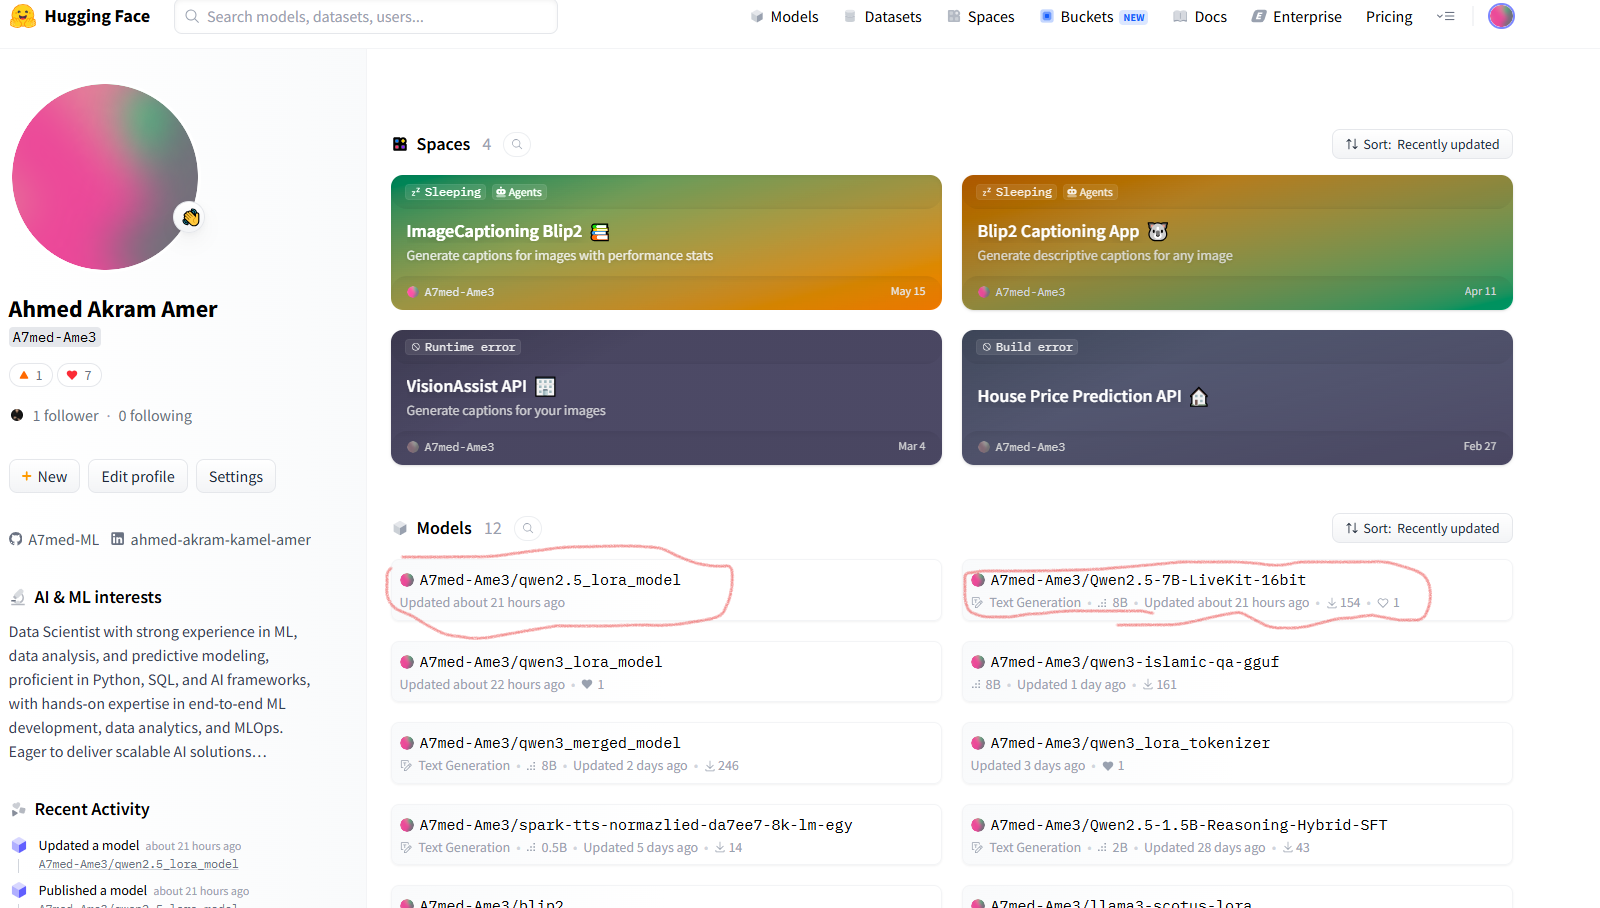
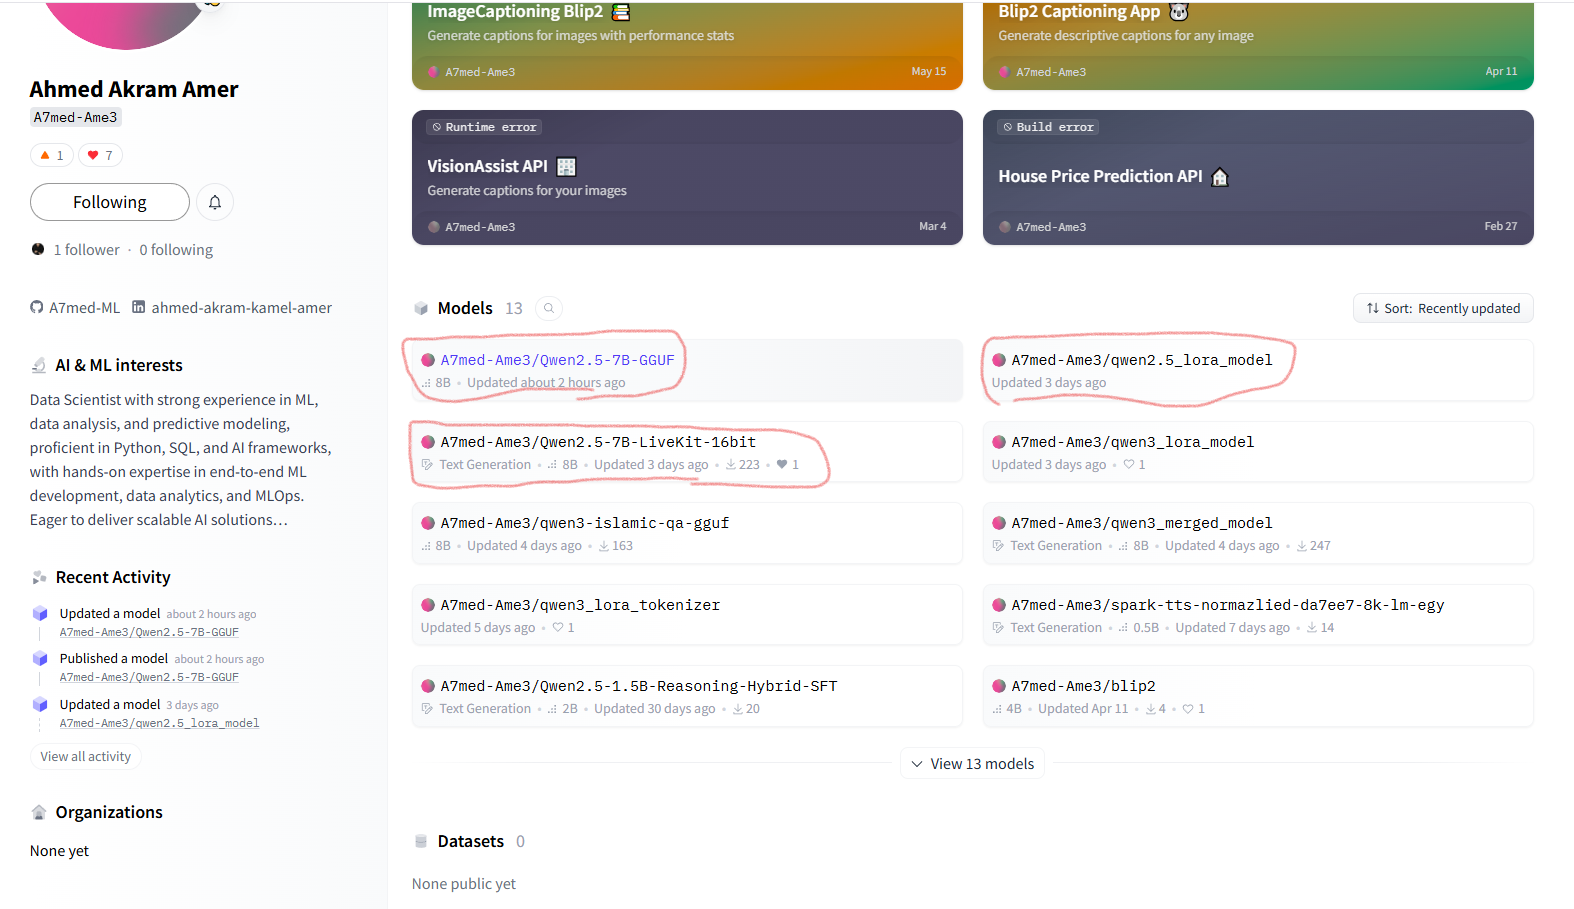
Try Inference with Llama.cpp

diff --git a/llama_inference.py b/llama_inference.py
@@ -1,0 +1,56 @@
+from pyngrok import ngrok
+import sys
+import time
+import subprocess
+import os
+# توجيه الكاش لمجلد محلي داخل المشروع قبل استدعاء باقي المكتبات
+os.environ["HF_HOME"] = "./.hf_cache"
+
+
+PORT = 8000
+REPO_ID = "A7med-Ame3/Qwen2.5-7B-GGUF"
+FILENAME = "Qwen2.5-7B-LiveKit-16bit.Q4_K_M.gguf"
+
+
+def start_llama_server():
+    print("🚀 جاري تشغيل llama-cpp server...")
+
+    cmd = [
+        sys.executable, "-m", "llama_cpp.server",
+        "--hf_model_repo_id", REPO_ID,
+        "--model", FILENAME,
+        "--n_gpu_layers", "-1",
+        "--host", "0.0.0.0",
+        "--port", str(PORT)
+    ]
+
+    server_process = subprocess.Popen(cmd)
+
+    print("⏳ انتظار تحميل الموديل والسيرفر...")
+    time.sleep(10)
+
+    try:
+        public_url = ngrok.connect(PORT).public_url
+        base_url = f"{public_url}/v1"
+
+        print("\n" + "="*50)
+        print("✅ السيرفر شغال بنجاح!")
+        print(f"🔗 انسخ هذا الرابط وضعه في ملف .env كـ LLM_BASE_URL:")
+        print(f"\n{base_url}\n")
+        print("="*50 + "\n")
+
+    except Exception as e:
+        print(f"❌ حدث خطأ أثناء فتح Ngrok: {e}")
+        server_process.terminate()
+        return
+
+    try:
+        server_process.wait()
+    except KeyboardInterrupt:
+        print("\n🛑 جاري إيقاف السيرفر و Ngrok...")
+        ngrok.kill()
+        server_process.terminate()
+
+
+if __name__ == "__main__":
+    start_llama_server()

diff --git a/agent.py b/agent.py
@@ -11,6 +11,8 @@ load_dotenv(".env")
 # Run vLLM Server on Kaggle Notebook
 # Make it Public via Ngork
 # Take Public URL in Livekit Agent
+
+# - llama.cpp -> 
 # The Pipeline :-
 # 1) STT        --> Convert my speech into text
 # 2) Custom LLM --> Make Actions on a received text (Generate Answer)
@@ -18,7 +20,7 @@ load_dotenv(".env")
 
 LLM_BASE_URL = os.getenv("LLM_BASE_URL", "https://unsignalised-englacial-vinnie.ngrok-free.dev/v1")
 LLM_MODEL_NAME = os.getenv("LLM_MODEL_NAME", "A7med-Ame3/Qwen2.5-7B-LiveKit-16bit")
-
+# LLM_MODEL_NAME = os.getenv("LLM_MODEL_NAME", "Qwen2.5-7B-LiveKit-16bit.Q4_K_M.gguf")
 
 SYSTEM_PROMPT = (
     # --> Context 
@@ -72,7 +74,7 @@ async def entrypoint(ctx: JobContext):
     await session.start(room=ctx.room, agent=agent)
 
     await session.say(
-        "أهلاً بك! أنا هنا عشان أساعدك في أي سؤال ديني، اتفضل اسأل.",
+        "اهلا بيك اخى العزيز,اسمك ايه و اقدر اساعدك ازاى ؟ ",
         allow_interruptions=True,
     )
 

diff --git a/README.md b/README.md
@@ -1,0 +1,158 @@
+# 🚀 [Tips Hindawi](https://www.tipshindawi.com/) Challenge (June–July) 2026
+
+> 🏆 This repository is my official submission for the [**Tips Hindawi**](https://www.tipshindawi.com/) **Challenge (June–July) 2026**.
+
+## 👤 Participant
+
+| Field            | Value                                            |
+| ---------------- | ------------------------------------------------ |
+| Full Name        | Ahmed Akram Amer                                 |
+| Project Name     | Islamic-QA-Egyptian-Dialect                      |
+| GitHub Username  | [Ahmed-7-ML](https://github.com/Ahmed-7-ML)       |
+| Challenge Batch  | June–July 2026                                  |
+| Training Program | Large Language Models (LLMs) Program             |
+| Organization     | [**Edrak for Ai**](https://edrak4ai.com/en) |
+
+---
+
+# 📖 Project Overview
+
+**Islamic-QA-Egyptian-Dialect** is a fine-tuned, low-latency conversational AI assistant that understands and answers Islamic (Aqeedah, Fiqh, Seerah/history, and general) questions naturally in **Egyptian Arabic dialect (العامية المصرية)**.
+
+The project fine-tunes `Qwen2.5-7B-Instruct` on a curated Egyptian-Arabic Islamic Q&A dataset using LoRA/QLoRA, then deploys the result across two production-style serving paths — a merged 16-bit model via **vLLM** and integrates it into a real-time, voice-based conversational agent using the **LiveKit Agents Framework** (Deepgram STT → LLM → Cartesia TTS).
+
+Every technical decision — base model choice, dataset selection, LoRA configuration, and quantization strategy — is documented and justified in [`ARCHITECTURE.md`](./ARCHITECTURE.md), alongside a systematic base-model-vs-fine-tuned-model evaluation covering latency, VRAM, and dialect consistency.
+
+---
+
+# ✨ Features
+
+* Fine-tuned LLM that answers Islamic questions fluently in natural Egyptian dialect instead of formal Modern Standard Arabic.
+* Parameter-efficient fine-tuning (LoRA/QLoRA via Unsloth) — trainable on limited/free-tier GPU memory.
+* Deployment-ready model formats: a merged 16-bit model for **vLLM** serving.
+* Real-time voice agent built on **LiveKit Agents**, combining Deepgram STT, the fine-tuned LLM, Cartesia TTS, and Silero VAD into a full speech-to-speech pipeline.
+* Systematic **base vs. fine-tuned** evaluation harness measuring TTFT, TPS, output length, and peak VRAM across 16 held-out questions spanning 4 intent categories.
+* Documented, justified technical decisions for every stage of the pipeline (see `ARCHITECTURE.md`).
+
+---
+
+# 🛠 Technologies Used
+
+* **Base Model**: `Qwen2.5-7B-Instruct` (Qwen, Apache 2.0)
+* **Fine-Tuning**: LoRA / QLoRA (4-bit), [Unsloth](https://github.com/unslothai/unsloth), TRL `SFTTrainer`
+* **Quantization**: GGUF (`q4_k_m`) via Unsloth's native GGUF export
+* **Serving**: vLLM (OpenAI-compatible API), llama.cpp / Ollama (GGUF)
+* **Real-Time Voice Pipeline**: [LiveKit Agents Framework](https://docs.livekit.io/agents/), Deepgram (STT, `nova-3`), Cartesia (TTS, `sonic-3`), Silero (VAD)
+* **Data & Evaluation**: Hugging Face Hub (`datasets`, `transformers`), pandas, `sentence-transformers` (semantic similarity for quantization-loss comparison)
+* **Language**: Python
+
+---
+
+# ⚙ Installation
+
+```bash
+# Clone the repository
+git clone https://github.com/Ahmed-7-ML/Islamic-QA-Egyptian-Dialect.git
+cd Islamic-QA-Egyptian-Dialect
+
+# Install Python dependencies
+pip install -r requirements.txt
+```
+
+Create a `.env` file in the project root with the credentials needed for the LiveKit voice agent:
+
+```env
+LIVEKIT_URL=
+LIVEKIT_API_KEY=
+LIVEKIT_API_SECRET=
+DEEPGRAM_API_KEY=
+CARTESIA_API_KEY=
+OPENAI_API_KEY=EMPTY
+```
+
+The fine-tuning and evaluation notebook (`qwen3-8b-islamic-qa-updated.ipynb`) is designed to run on a GPU-backed environment (Kaggle/Colab or equivalent) and handles model loading, training, quantization, and benchmarking end-to-end.
+
+---
+
+# 🚀 Usage
+
+**1. Fine-tune and export the model** — open the notebook and run the cells in order: base model loading → LoRA fine-tuning → merge → GGUF quantization. Adapters, the merged model, and the dataset are also published on Hugging Face (see links below).
+
+**2. Serve the model** — either:
+
+- Serve the merged 16-bit model with **vLLM** (OpenAI-compatible endpoint), or
+- Run the **GGUF `q4_k_m`** model locally via `llama-cpp-python` or Ollama for lighter-weight inference.
+
+**3. Run the voice agent** — with the model server running, start the LiveKit agent worker:
+
+```bash
+python agent.py dev
+```
+
+Then connect to the agent through the [LiveKit Agents Playground](https://agents-playground.livekit.io/) (or my own frontend) using your `LIVEKIT_URL`, and start talking — the agent listens, thinks, and replies in Egyptian dialect, in voice.
+
+**4. Run the evaluation suite** — the notebook's evaluation section runs the full base-vs-fine-tuned benchmark.
+
+---
+
+# 📸 Demo
+
+🎥 **Live Demo (video)**: [Watch on Google Drive](https://drive.google.com/file/d/1BRYskrCp0Qf4y649rONq1XTpNDMA57-9/view?usp=sharing)
+
+**LiveKit console — live end-to-end voice test** (Egyptian dialect STT → LLM → TTS pipeline):
+
+![LiveKit console live test](./assets/livekit-console-test.png)
+
+**vLLM deployment check** (OpenAI-compatible `/v1/models` endpoint serving the fine-tuned model):
+
+![vLLM endpoint check](./assets/vllm-api-check.png)
+
+Additional training/evaluation charts and screenshots are available in [`ARCHITECTURE.md`](./ARCHITECTURE.md).
+
+---
+
+# 📈 Results
+
+A full base-model-vs-fine-tuned-model evaluation was run across 16 held-out questions spanning 4 intent categories (`aqeedah`, `fiqh`, `history`, `general`):
+
+| Metric                     | Base Model      | Fine-Tuned Model | Change                            |
+| -------------------------- | --------------- | ---------------- | --------------------------------- |
+| Total Inference Time (sec) | 12.75           | **7.68**   | ~40% faster                       |
+| Output Tokens              | 189.6           | **112.3**  | ~41% shorter, more direct answers |
+| TPS (tok/sec)              | **14.89** | 14.58            | ~unchanged                        |
+| TTFT (sec)                 | **0.29**  | 0.39             | ~34% slower                       |
+| Peak VRAM (MB)             | 14,157          | **14,168** | negligible difference             |
+
+**Key takeaway**: fine-tuning did not speed up raw token-by-token decoding, but it did teach the model to answer more concisely and directly in natural Egyptian dialect — cutting total response time by ~40% end-to-end, which matters most for a real-time voice assistant. TTFT was slightly higher for the fine-tuned model, a finding reported here rather than hidden, with further investigation flagged as future work.
+
+Full methodology, per-intent breakdowns, and the honest interpretation of these numbers (including what *didn't* improve) are documented in [`ARCHITECTURE.md`](./ARCHITECTURE.md).
+
+### Hugging Face Links
+
+* **LoRA Adapter**: [A7med-Ame3/qwen2.5_lora_model](https://huggingface.co/A7med-Ame3/qwen2.5_lora_model)
+* **Merged Model (16-bit)**: [A7med-Ame3/Qwen2.5-7B-LiveKit-16bit](https://huggingface.co/A7med-Ame3/Qwen2.5-7B-LiveKit-16bit)
+* **Updated Dataset**: [A7med-Ame3/islamic-qa-egyptian](https://huggingface.co/datasets/A7med-Ame3/islamic-qa-egyptian)
+
+---
+
+# 🔮 Future Improvements
+
+* **Custom Egyptian-Dialect TTS** — Develop a locally fine-tuned TTS model on Egyptian dialect, voiced as a sheikh, to make the assistant's tone appropriate to the subject.
+* **Multi-User Session Memory** — Add per-session memory so the assistant tracks and recalls each concurrent user's own conversation context.
+* **Cloud-Native Deployment** — Move deployment to managed GPU cloud platforms such as RunPod or Modal for scalable, production-grade hosting.
+* **Deeper Quantization** — Apply further quantization to shrink model size and GPU memory consumption for cheaper, faster inference.
+* **Latency–Accuracy Trade-offs** — Systematically study the trade-off between response speed and answer quality/accuracy across quantization levels.
+
+# 📚 About the Challenge
+
+This project was developed as part of the [**Tips Hindawi**](https://www.tipshindawi.com/) **Challenge (June–July) 2026**.
+
+[Tips Hindawi](https://www.tipshindawi.com/) is the internships department of [**Edrak for Ai**](https://edrak4ai.com/en), and the challenge encourages participants to build real-world projects, apply practical skills, and showcase their work through GitHub.
+
+For more information about the challenge, training programs, and upcoming batches, visit the official [Tips Hindawi](https://www.tipshindawi.com/) website.
+
+---
+
+# 📄 License
+
+This project is shared for educational and portfolio purposes.

diff --git a/ARCHITECTURE.md b/ARCHITECTURE.md
@@ -7,6 +7,7 @@
 | 🎥 Live Demo             | [Watch on Google Drive](https://drive.google.com/file/d/1BRYskrCp0Qf4y649rONq1XTpNDMA57-9/view?usp=sharing) |
 | 🔧 LoRA Adapter          | [A7med-Ame3/qwen2.5_lora_model](https://huggingface.co/A7med-Ame3/qwen2.5_lora_model)                       |
 | 🧩 Merged Model (16-bit) | [A7med-Ame3/Qwen2.5-7B-LiveKit-16bit](https://huggingface.co/A7med-Ame3/Qwen2.5-7B-LiveKit-16bit)           |
+| GGUF Model               | [huggingface.co/A7med-Ame3/Qwen2.5-7B-GGUF](https://huggingface.co/A7med-Ame3/Qwen2.5-7B-GGUF)              |
 | 📊 Updated Dataset       | [A7med-Ame3/islamic-qa-egyptian](https://huggingface.co/datasets/A7med-Ame3/islamic-qa-egyptian)            |
 
 ---
@@ -82,10 +83,11 @@ Each training example was tagged with a heuristic intent category (`aqeedah`, `f
 
 ### Deployment Artifacts Produced
 
-| Artifact            | Purpose                               | Location                                                                                         |
-| ------------------- | ------------------------------------- | ------------------------------------------------------------------------------------------------ |
-| LoRA adapters       | Lightweight, shareable fine-tune      | [A7med-Ame3/qwen2.5_lora_model](https://huggingface.co/A7med-Ame3/qwen2.5_lora_model)             |
-| Merged 16-bit model | Full-precision model for vLLM serving | [A7med-Ame3/Qwen2.5-7B-LiveKit-16bit](https://huggingface.co/A7med-Ame3/Qwen2.5-7B-LiveKit-16bit) |
+| Artifact            | Purpose                                     | Location                                                                                         |
+| ------------------- | ------------------------------------------- | ------------------------------------------------------------------------------------------------ |
+| LoRA adapters       | Lightweight, shareable fine-tune            | [A7med-Ame3/qwen2.5_lora_model](https://huggingface.co/A7med-Ame3/qwen2.5_lora_model)             |
+| Merged 16-bit model | Full-precision model for vLLM serving       | [A7med-Ame3/Qwen2.5-7B-LiveKit-16bit](https://huggingface.co/A7med-Ame3/Qwen2.5-7B-LiveKit-16bit) |
+| GGUF Model          | 4-bit Quantized Model for Llama.cpp serving | [huggingface.co/A7med-Ame3/Qwen2.5-7B-GGUF](https://huggingface.co/A7med-Ame3/Qwen2.5-7B-GGUF)    |
 
 All published artifacts are visible on the model author's Hugging Face profile:
 
@@ -110,6 +112,7 @@ All published artifacts are visible on the model author's Hugging Face profile:
 ### Why 4-bit quantization during training?
 
 - **4-bit (LoRA) during training**: Loading the base model in 4-bit precision (`load_in_4bit=True`) reduces the memory footprint of the frozen base weights during fine-tuning, allowing a 7B-parameter model to train on GPUs with limited VRAM — the constraint driving nearly every infrastructure decision in this project. LoRA adapters themselves are trained in higher precision, so this does not meaningfully degrade adaptation quality.
+- **q4_k_m for GGUF export** : Among Unsloth's supported quantization methods (`q8_0`, `q4_k_m`, `q5_k_m`), `q4_k_m` was selected as the recommended balance point — it keeps higher precision (Q6_K) for the attention output and half of the feed-forward weights (the layers most sensitive to quality loss) while using more aggressive Q4_K quantization elsewhere, giving a substantially smaller file size and faster CPU/edge inference than `q8_0` with comparatively minor quality trade-off, which matters directly for the "low-latency production deployment" requirement of this task.
 
 ---
 
@@ -135,11 +138,11 @@ Unlike an earlier single-prompt pilot, this result averages TTFT, TPS, output le
 
 | Metric                     | Base Model (`Qwen2.5-7B-Instruct`) | Fine-Tuned Model | Change                            |
 | -------------------------- | ------------------------------------ | ---------------- | --------------------------------- |
-| TTFT (sec)                 | 0.29                                 | 0.39             | ~34%**slower**              |
-| Total Inference Time (sec) | 12.75                                | 7.68             | ~40% faster                       |
-| Output Tokens              | 189.6                                | 112.3            | ~41% shorter                      |
-| TPS (tok/sec)              | 14.89                                | 14.58            | ~2% lower (essentially unchanged) |
-| Peak VRAM (MB)             | 14,156.96                            | 14,168.06        | ~0.08% higher (negligible)        |
+| TTFT (sec)                 | **0.29**                            | 0.39             | ~34%**slower**              |
+| Total Inference Time (sec) | 12.75                                | **7.68**        | ~40% faster                       |
+| Output Tokens              | 189.6                                | **112.3**       | ~41% shorter                      |
+| TPS (tok/sec)              | 14.89                                | **14.58**       | ~2% lower (essentially unchanged) |
+| Peak VRAM (MB)             | 14,156.96                            | **14,168.06**   | ~0.08% higher (negligible)        |
 
 ---
 
